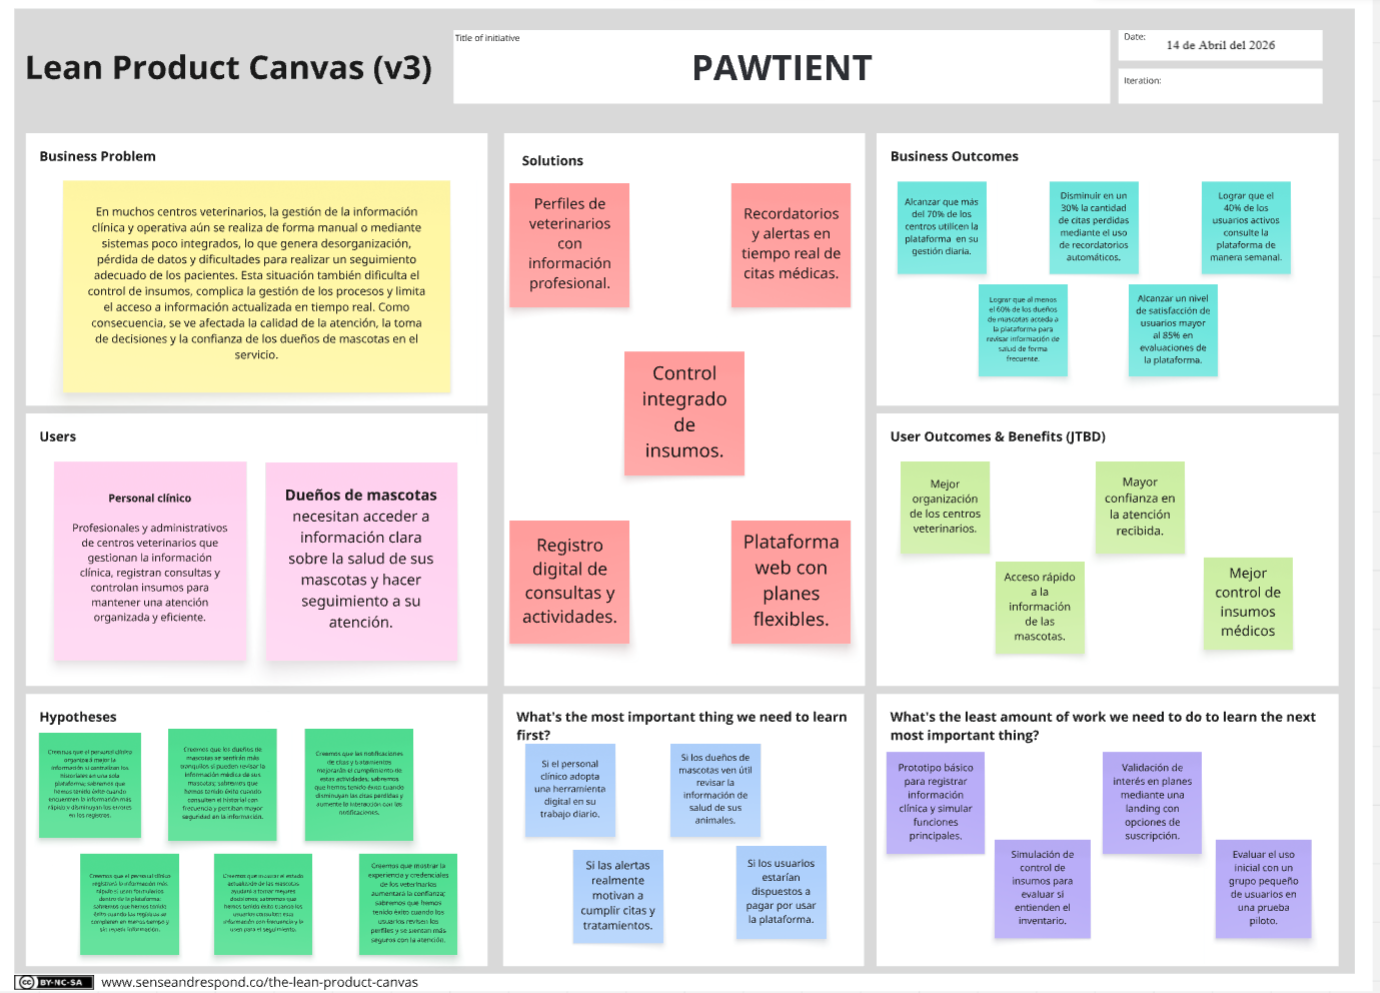
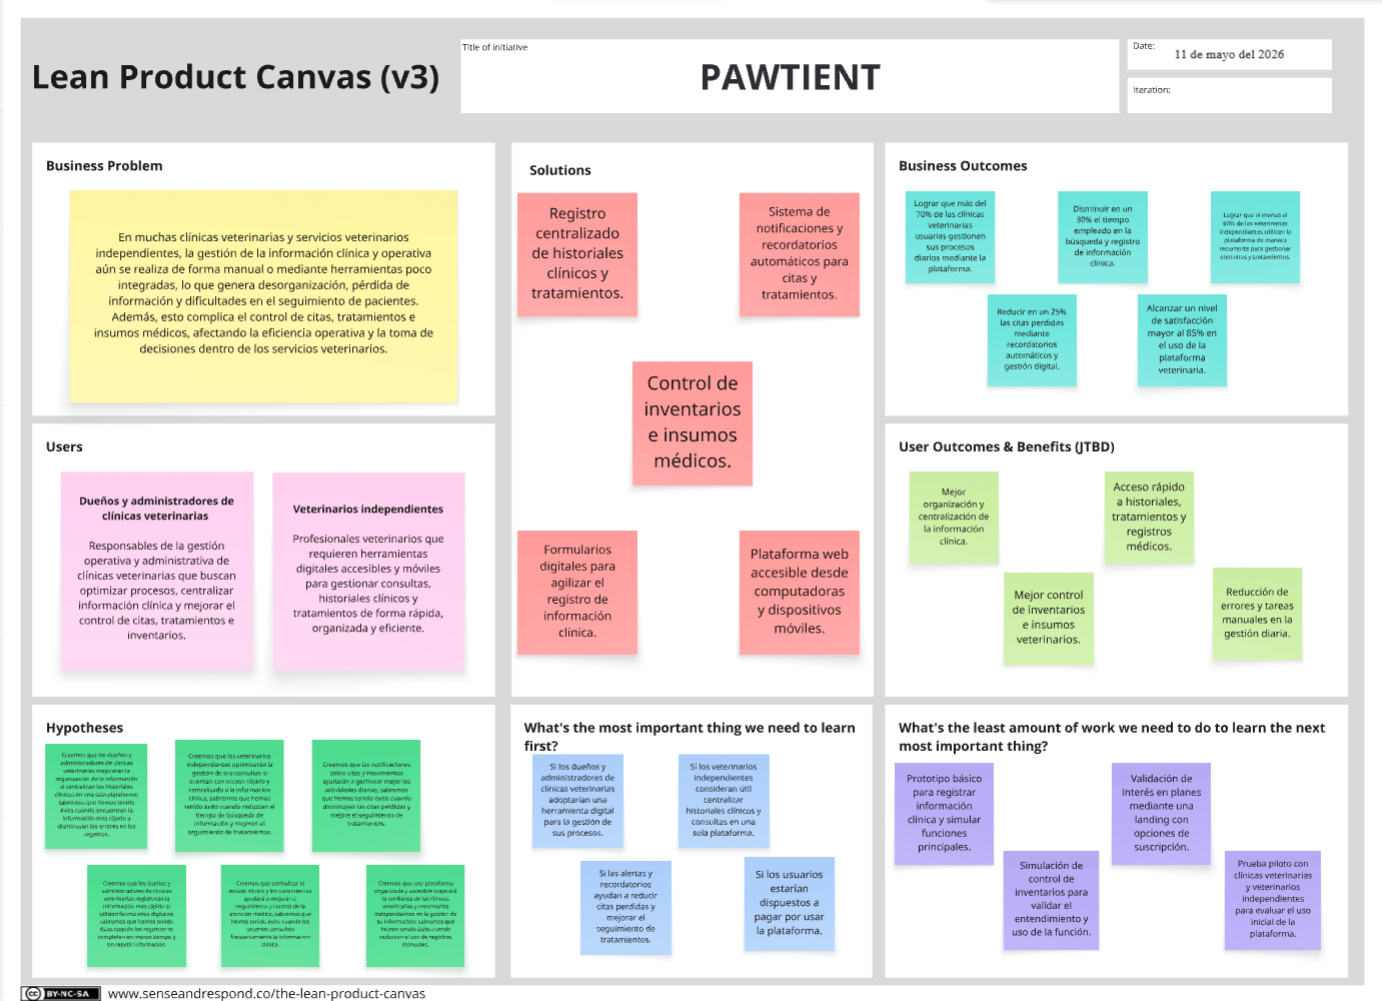
docs: correct the Lean UX Canvas with the new target

Changed region(s): [[0.0, 0.0, 0.9971, 1.0]]

diff --git a/README.md b/README.md
@@ -424,27 +424,28 @@ La plataforma debe contar con un diseño claro y ordenado, con iconos fáciles d
 
   <br>**Sabremos que** hemos tenido éxito.
 
-  <br>**Cuando** os usuarios utilicen constantemente la plataforma y reduzcan el uso de registros manuales o herramientas no integradas.
+  <br>**Cuando** los usuarios utilicen constantemente la plataforma y reduzcan el uso de registros manuales o herramientas no integradas.
 
 ---
 
 #### 1.2.2.4. Lean UX Canvas
 
-El Lean UX Canvas es una herramienta visual que permite organizar y comprender los elementos clave de un producto, enfocándose en el problema, los usuarios y el valor que se busca ofrecer. En el caso de Pawtient, se utiliza para identificar las necesidades del personal clínico y de los dueños de mascotas, y definir cómo la plataforma aporta valor dentro de los centros veterinarios
+El Lean UX Canvas es una herramienta visual que permite organizar y comprender los elementos clave de un producto, enfocándose en el problema, los usuarios y el valor que se busca ofrecer.
+
+En el caso de Pawtient, se utiliza para identificar las necesidades de los dueños y administradores de clínicas veterinarias, así como de los veterinarios independientes, y definir cómo la plataforma aporta valor dentro de la gestión veterinaria.
 
 A continuación, se presenta el Lean UX Canvas de Pawtient:
 
 ![Lean UX Canvas](pawtient-report/assets/images/Capítulo1/Lean-UX-Canvas.png)
 
-**Enlace al Lean UX Canvas:** [*Ver en Miro*](https://miro.com/app/board/uXjVGi5z7Cc=/?share_link_id=122548882114)
+**Enlace al Lean UX Canvas:** [*Ver en Miro*](https://miro.com/welcomeonboard/QVN1VzZ1RmhoWEhGUm9heXpldFAyenkxK1hWQ1hiQ1dLTUlNN2twU1ArL0o2TzY2ZzdlMjc2dkJ0SEhvdy9PQTZGejBEeFNJWFQ5VUh2V1NNb3hKNlcxUnNrTWZNWmh3MitiSXhvQVdHeUtxSFhvTWN2OTNLNTk5LzZSa0lWUklzVXVvMm53MW9OWFg5bkJoVXZxdFhRPT0hdjE=?share_link_id=400022156481)
 
 ---
 
 ## 1.3. Segmentos objetivo
 
-En el análisis del segmento objetivo para Pawtient, se ha identificado que nuestros principales usuarios serán el personal clínico de los centros veterinarios y los dueños de mascotas.
 
-### Personal de clínico de centros veterinarios
+### Dueños y administradores de clínicas veterinarias
 
 Incluye veterinarios y personal administrativo, quienes necesitan gestionar la información clínica, registrar consultas, controlar insumos y organizar los procesos del centro de forma eficiente.
 
@@ -459,7 +460,7 @@ Incluye veterinarios y personal administrativo, quienes necesitan gestionar la i
 
 - **Uso de tecnología:** Uso frecuente de computadoras y dispositivos móviles.
 
-### Dueños de mascotas
+### Veterinarios independientes
 
 
 Los dueños de mascotas buscan estar informados sobre la salud de sus mascotas y entender mejor la atención que reciben. Muchas veces no cuentan con acceso a esta.